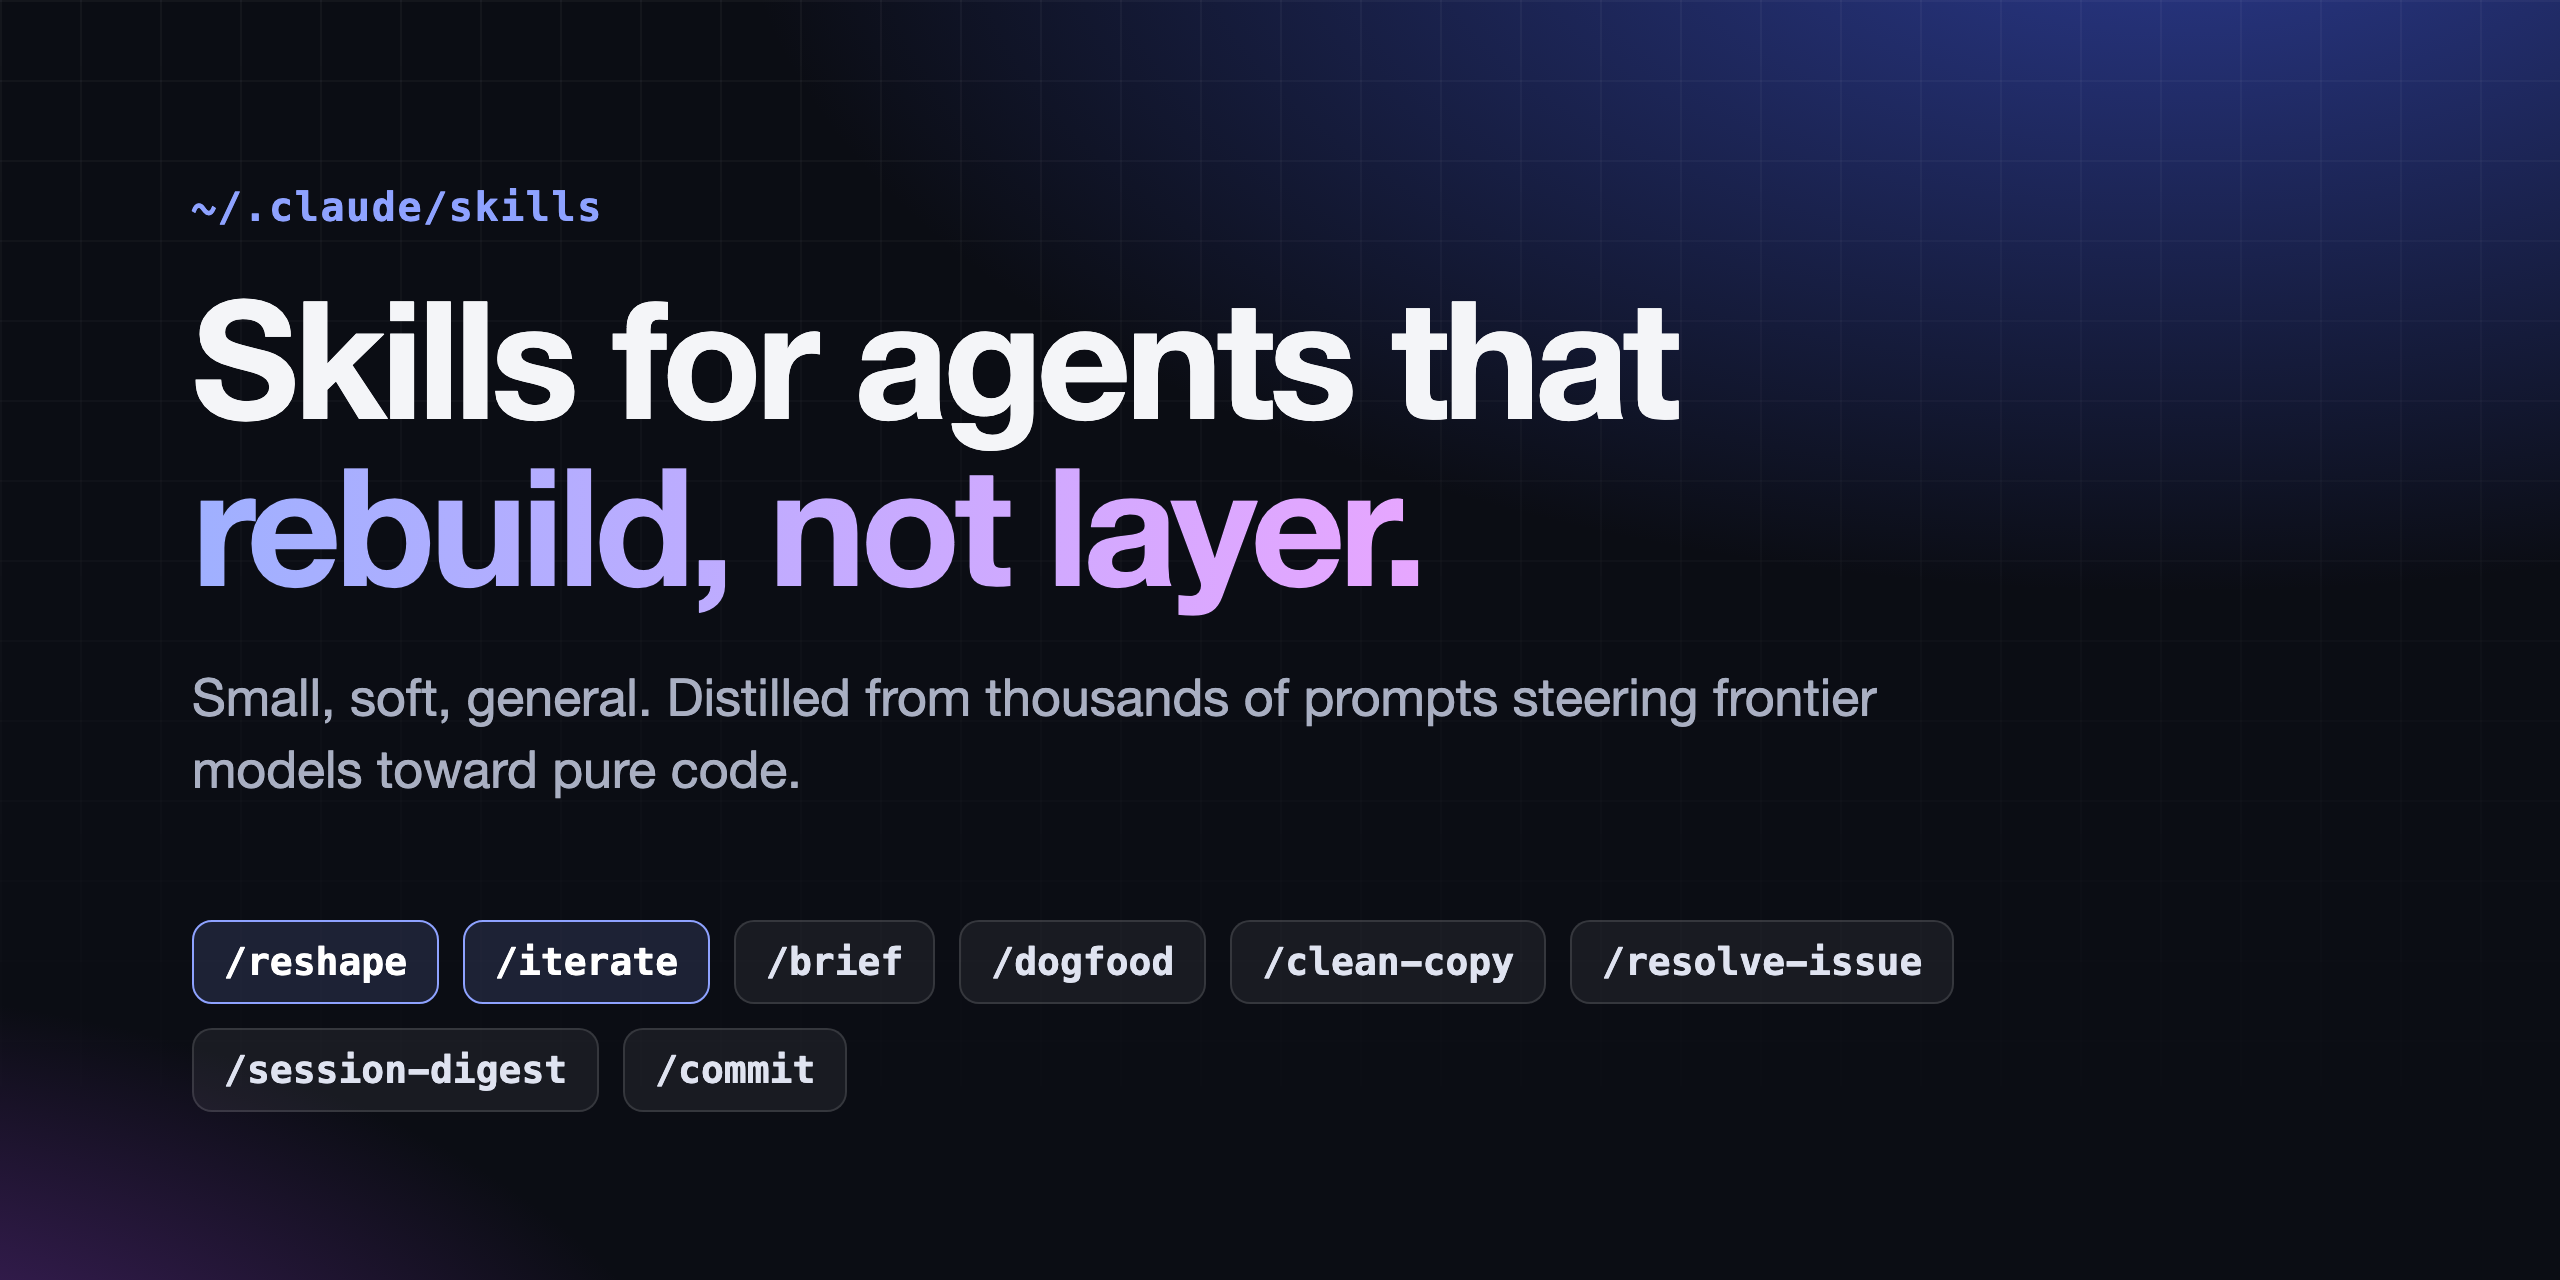
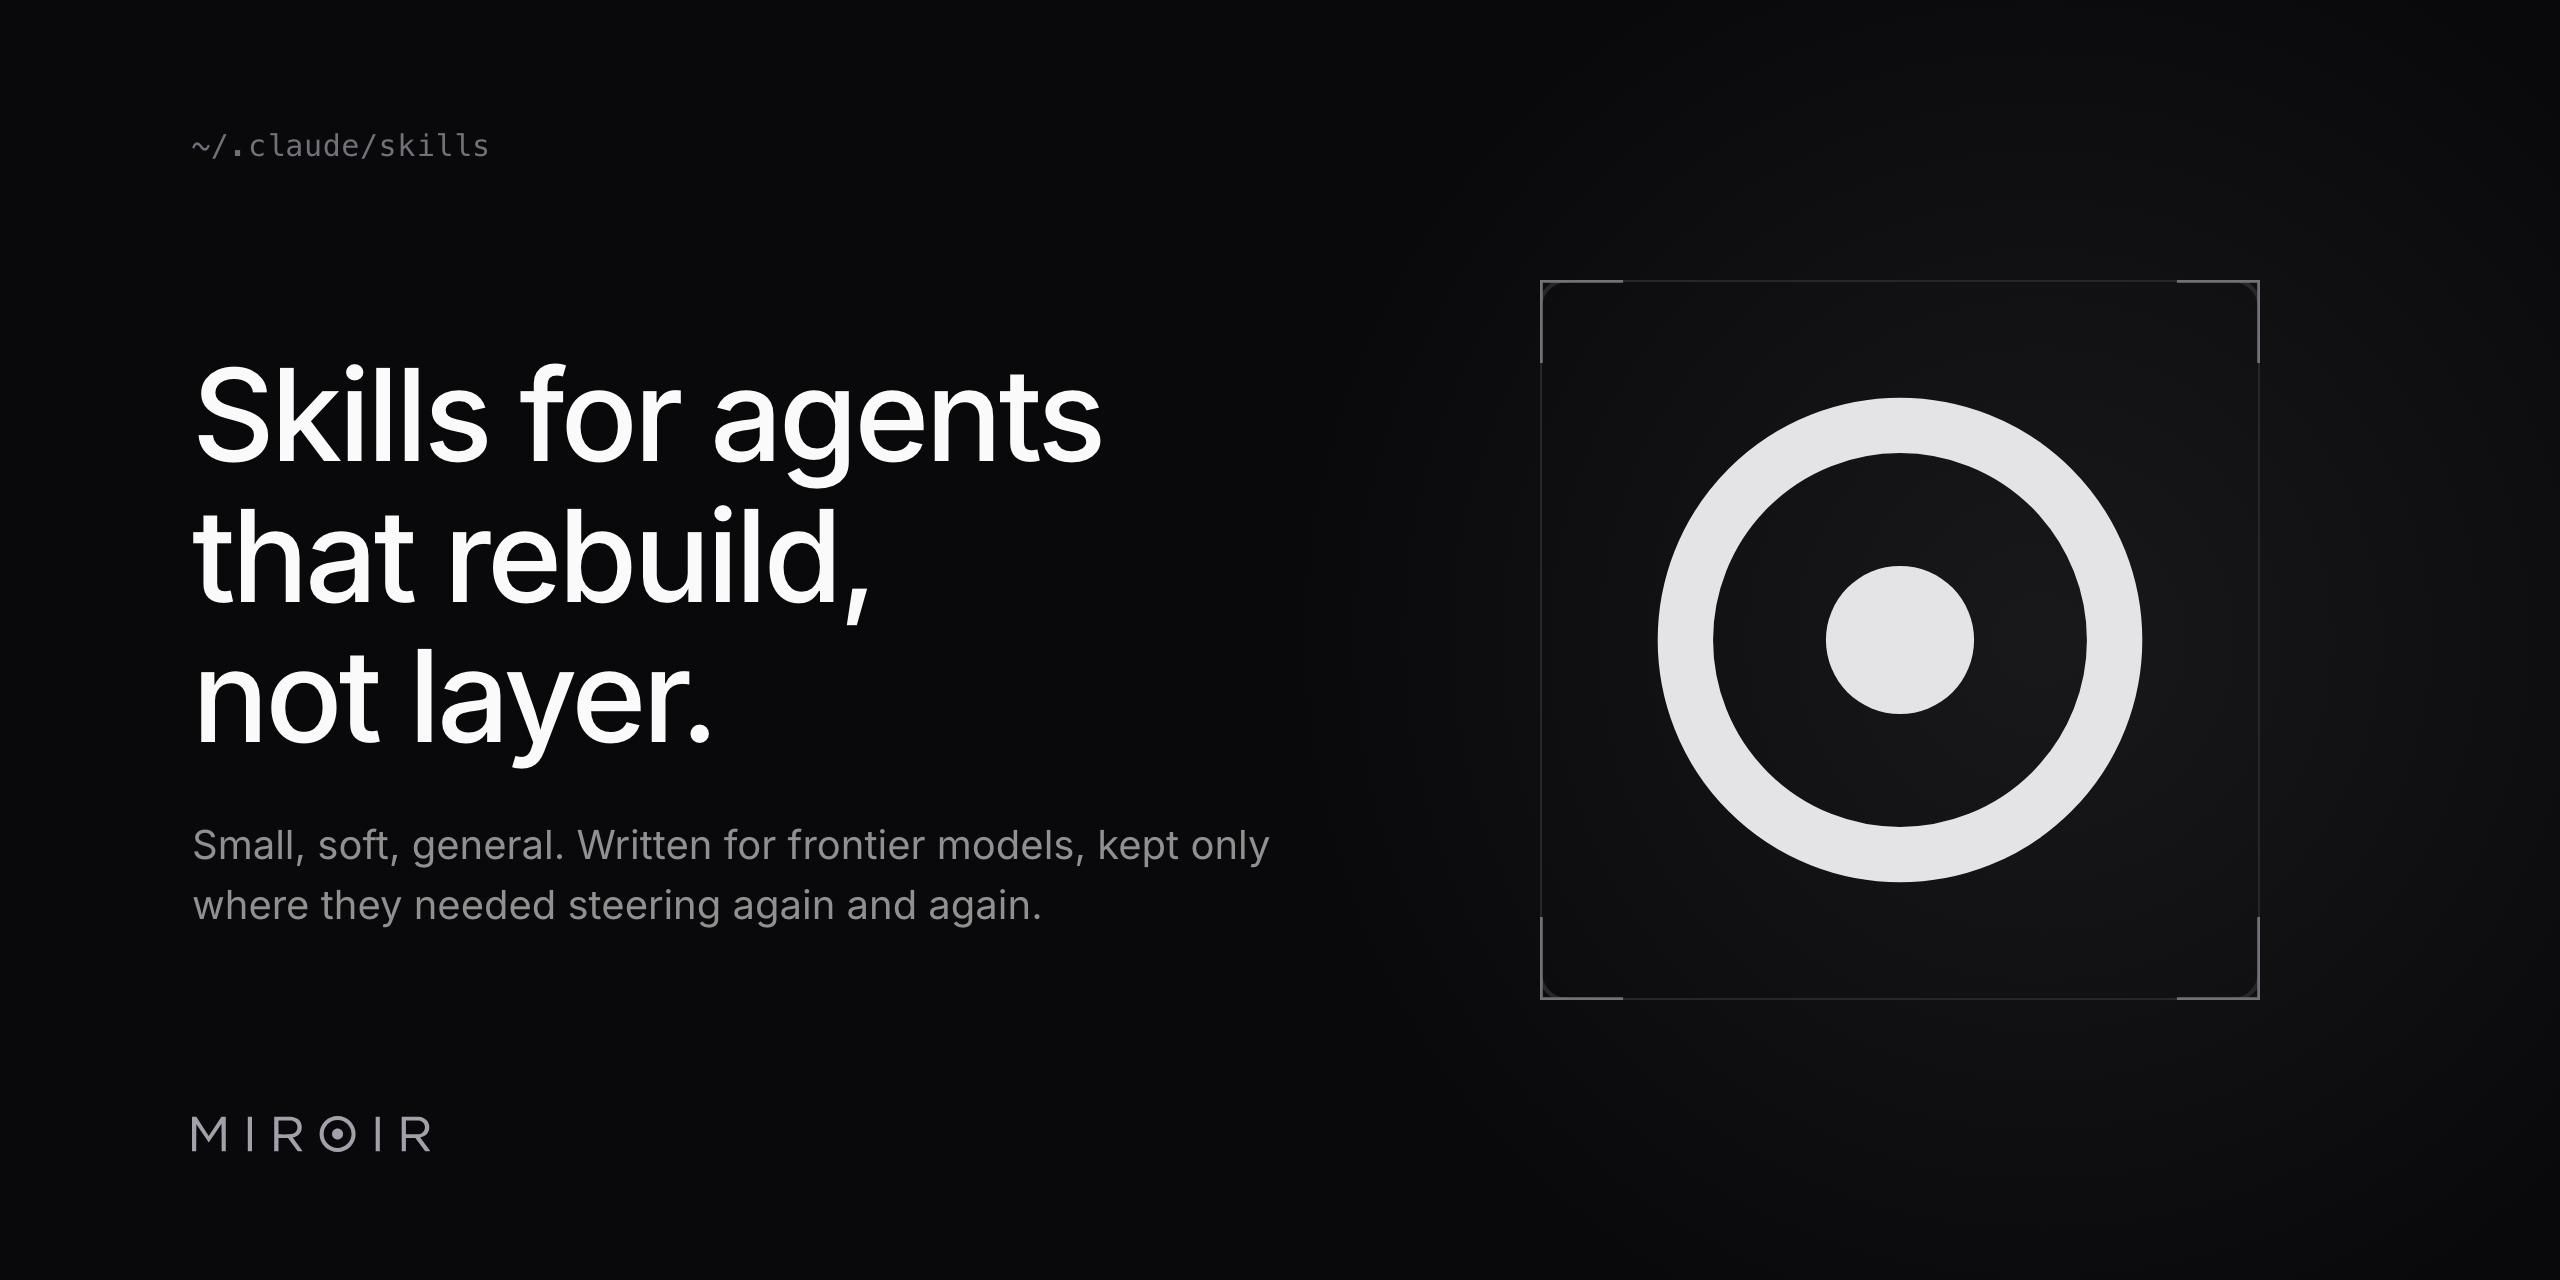
feat: review-architectural-design, Miroir-style cover, external skills we use

diff --git a/README.md b/README.md
@@ -1,12 +1,13 @@
 <p align="center"><img src="assets/cover.png" alt="Skills for agents that rebuild, not layer" width="100%"></p>
 
-Most agent skills are slop: long rulebooks that make your agent worse. These are the opposite: a few hundred words each, written for frontier models, kept only where the model needed steering again and again.
+Most agent skills are slop: long rulebooks that make your agent worse. These are the opposite. At [Miroir](https://miroir.co) we build Miroir OS with frontier coding agents every day, and we kept a skill only where the models needed steering again and again: a few hundred words each, written for senior-level models.
 
 ## Skills
 
 | Skill | Use it to | Try |
 |---|---|---|
 | [`/reshape`](skills/reshape/SKILL.md) | rebuild working code from first principles, with less of it | `/reshape −30% cyclomatic complexity, same perf` |
+| [`/review-architectural-design`](skills/review-architectural-design/SKILL.md) | list the design changes a clean sheet would make | `review the architectural design of the sync layer` |
 | [`/iterate`](skills/iterate/SKILL.md) | harden a branch with fresh-context reviewers and QA until A− | `/iterate the new export flow` |
 | [`/brief`](skills/brief/SKILL.md) | get caught up on a branch as if you had zero context | `catch me up, can we merge?` |
 | [`/dogfood`](skills/dogfood/SKILL.md) | watch fresh agents use your tool, fix it from their traces | `dogfood the CLI on 3 real tasks` |
@@ -16,6 +17,8 @@ Most agent skills are slop: long rulebooks that make your agent worse. These are
 | [`/commit`](skills/commit/SKILL.md) | split work into clean conventional commits | `commit all` |
 
 [`CLAUDE.md`](CLAUDE.md) holds the design rules they lean on: purity over layering, net-negative diffs, invalid states unrepresentable, commands first.
+
+We also use, and recommend, [Matt Pocock's skills](https://github.com/mattpocock/skills) (`grill-me`, `domain-modeling`, `writing-for-agents`, `wait-what`) and the visual summaries from [HumanLayer](https://github.com/humanlayer/humanlayer)'s skills in our PR bodies.
 
 ## Install
 

diff --git a/skills/review-architectural-design/SKILL.md b/skills/review-architectural-design/SKILL.md
@@ -1,0 +1,10 @@
+---
+name: review-architectural-design
+description: Review the architectural design of an implementation.
+---
+
+Treat the current implementation and its abstractions as disposable. Aim for pure design and the smallest coherent system, then list the concrete architectural changes to make.
+
+List design changes derived from first principles. Ask whether this is the design we would choose on a clean sheet, whether ownership and invariants are clear, and which states, layers, APIs, branches or failure paths could simply not exist in the first place under a better model. Prefer designs that make invalid states unrepresentable. Bias toward substantial simplification and coherent breaking changes when they produce a materially better result. Accept small or negligible tradeoffs when they enable significant complexity reductions.
+
+List deletions and simplifications that reduce total authored lines of code, cognitive complexity and cyclomatic complexity. Find complexity created by the implementation rather than the product: machinery that compensates for another design choice, policy split across owners, concepts that must stay synchronized, and abstractions that add more surface than they remove. Prefer the deeper change that deletes code and its underlying causes instead of polishing, moving or hiding symptoms. Preserve essential domain complexity that genuinely earns its place.
